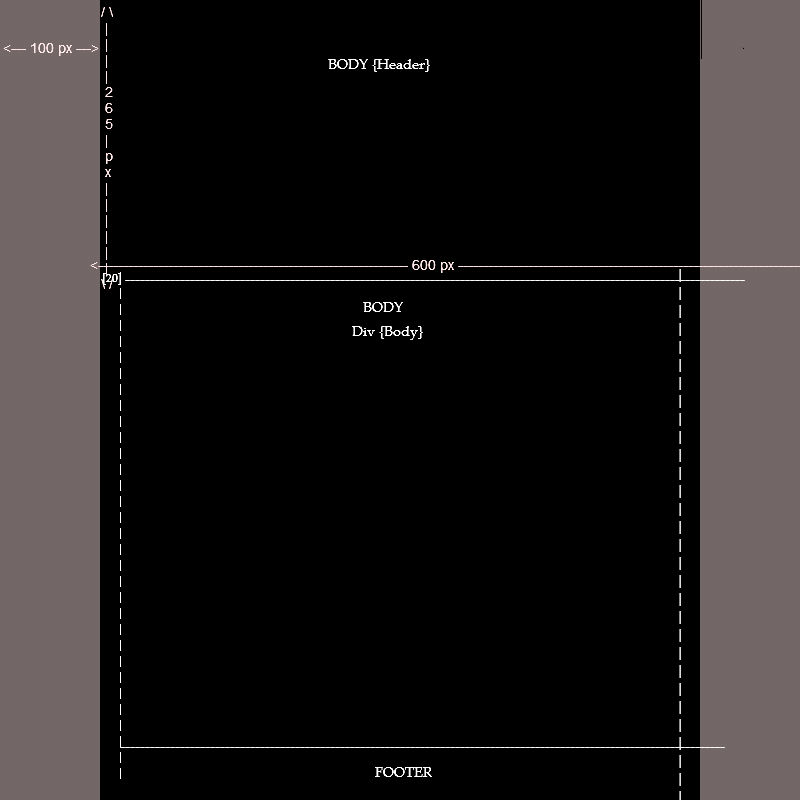
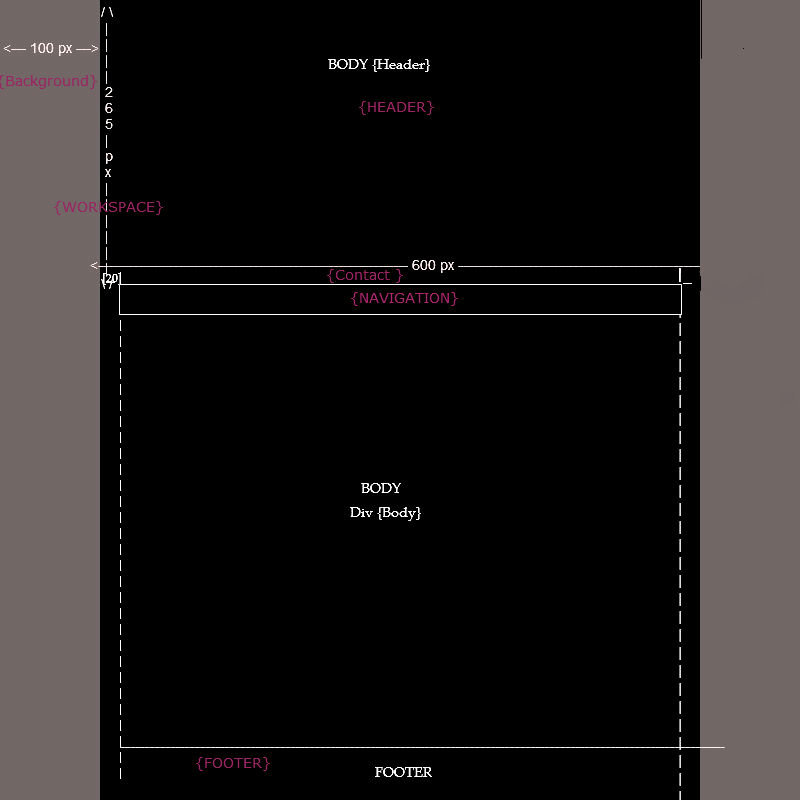
added html template

diff --git a/WebProject_HTML.html b/WebProject_HTML.html
@@ -1,0 +1,22 @@
+<!DOCTYPE>
+<html>
+	<head>
+		<title></title>
+		<link rel="stylesheet" type="text/css" href="(ENTER CSS FILE)"/>	
+	</head>
+	
+	<body>
+		<div id="Background">
+		</div>
+		<div id="Workspace">
+		</div>
+		<div id="Header">
+		</div>
+		<div id="Navigation">
+		</div>
+		<div id="Body">
+		</div>
+		<div id="Footer">
+		</div>
+	</body>
+</html>
